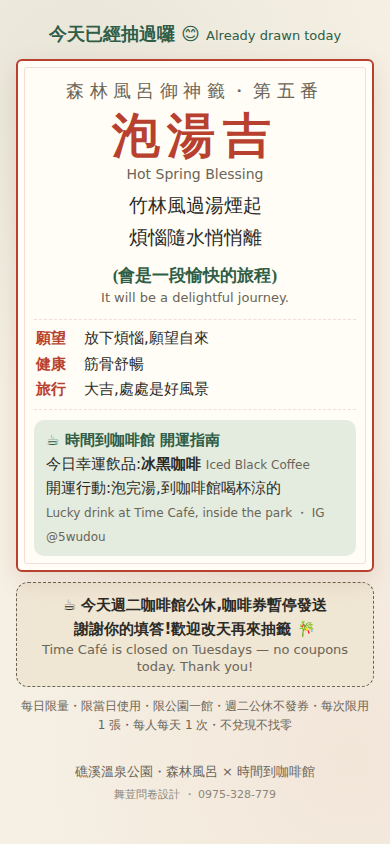
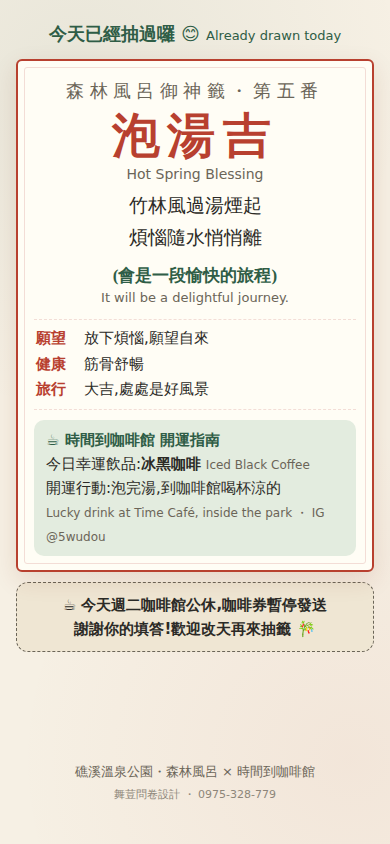
御神籤結果頁:紅色領券區以下拿掉英文,規則縮成一行,未發券時不顯示規則
Claude-Session: https://claude.ai/code/session_01F6yyhJXwLMGLQPqwSGyNKN

diff --git a/行銷/森林風呂御神籤/Index.html b/行銷/森林風呂御神籤/Index.html
@@ -250,10 +250,10 @@
       <div class="c1">🎁 時間到咖啡館 折 30 元 <span class="no" id="cno"></span></div>
       <div class="c2">👉 出示此畫面到<b>【森林風呂櫃台】</b>索取咖啡券</div>
       <div class="c5">憑紙本券到時間到咖啡館現折 30 元・<b style="color:#ffe9a8">限當日使用</b></div>
-      <div class="c3"><span class="live"><span class="dot"></span><span id="clock"></span></span> ・ Show this at the Forest Onsen counter</div>
+      <div class="c3"><span class="live"><span class="dot"></span><span id="clock"></span></span></div>
     </div>
     <div class="soldout" id="soldout" hidden></div>
-    <div class="rules">每日限量・限當日使用・限公園一館・週二公休不發券・每次限用 1 張・每人每天 1 次・不兌現不找零</div>
+    <div class="rules">每人每天 1 次・不兌現不找零</div>
   </section>
 
   <div class="foot">礁溪溫泉公園・森林風呂 × 時間到咖啡館
@@ -537,12 +537,13 @@
     $("slip").classList.remove("open"); void $("slip").offsetWidth; $("slip").classList.add("open");
     var has = !!r.coupon;
     document.querySelector(".claim").hidden = !has;
+    document.querySelector(".rules").hidden = !has;
     $("soldout").hidden = has;
     $("soldout").innerHTML = r.closed
-      ? '☕ 今天週二咖啡館公休,咖啡券暫停發送<br>謝謝你的填答!歡迎改天再來抽籤 🎋<span class="en">Time Café is closed on Tuesdays — no coupons today. Thank you!</span>'
+      ? '☕ 今天週二咖啡館公休,咖啡券暫停發送<br>謝謝你的填答!歡迎改天再來抽籤 🎋'
       : f.nowin
-      ? '🍀 這次沒抽中咖啡券,謝謝你的填答!<br>明天再來試試手氣,歡迎到時間到咖啡館坐坐 ☕<span class="en">No coupon this time — thank you! Try again tomorrow.</span>'
-      : '🙏 今日咖啡券已送完,謝謝你的填答!<br>明天再來試試手氣,歡迎到時間到咖啡館坐坐 ☕<span class="en">Today\'s coupons are all gone — thank you! Try again tomorrow.</span>';
+      ? '🍀 這次沒抽中咖啡券,謝謝你的填答!<br>明天再來試試手氣,歡迎到時間到咖啡館坐坐 ☕'
+      : '🙏 今日咖啡券已送完,謝謝你的填答!<br>明天再來試試手氣,歡迎到時間到咖啡館坐坐 ☕';
     $("cno").textContent = has ? "No." + r.coupon : "";
     $("again").hidden = !repeat;
     show("s-result");
